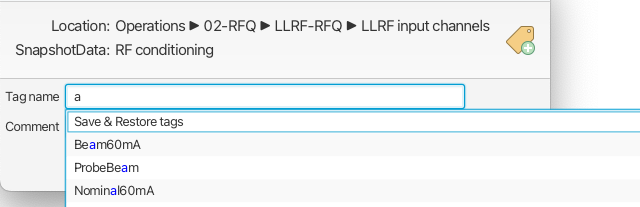
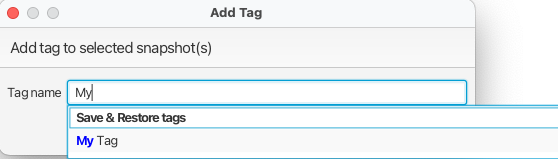
Updates to save&restore app documentation

Changed region(s): [[0.0, 0.0503, 1.0, 1.0], [0.0, 0.2013, 0.3961, 0.3522], [0.0, 0.0, 0.8835, 0.1258]]

diff --git a/app/save-and-restore/app/doc/index.rst b/app/save-and-restore/app/doc/index.rst
@@ -361,13 +361,13 @@ are expanded. To easily find *all* matching items user will need to use the sear
 Tagging
 -------
 
-Tagging of snapshots can be used to facilitate search and filtering. The Tags with comment context menu option of the
+Tagging of snapshots can be used to facilitate search and filtering. The Tags context menu option of the
 snapshot node is used to launch the tagging dialog:
 
 .. image:: images/add-tag.png
 
-In the dialog user may specify a case sensitive tag name and optionally a comment. When typing in the Tag name field,
-a list of existing tag names that may match the typed text is shown. User may hence "reuse" existing tags:
+In the dialog user may specify a case sensitive tag name. When typing in the Tag name field,
+a list of existing tag names that may match the typed text is shown. User may hence reuse existing tags:
 
 .. image:: images/tag-hints.png
 
